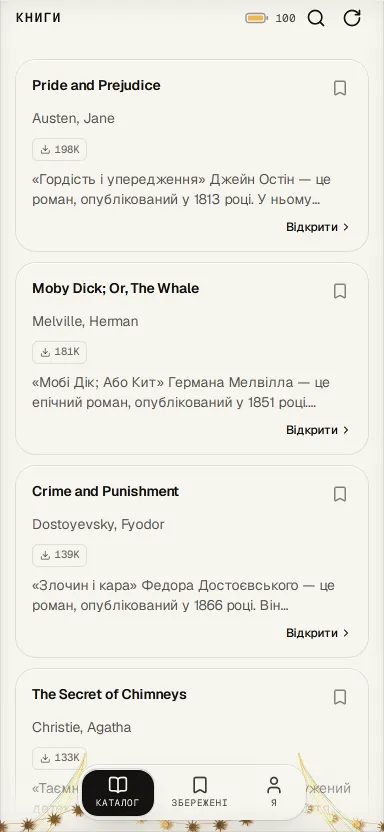
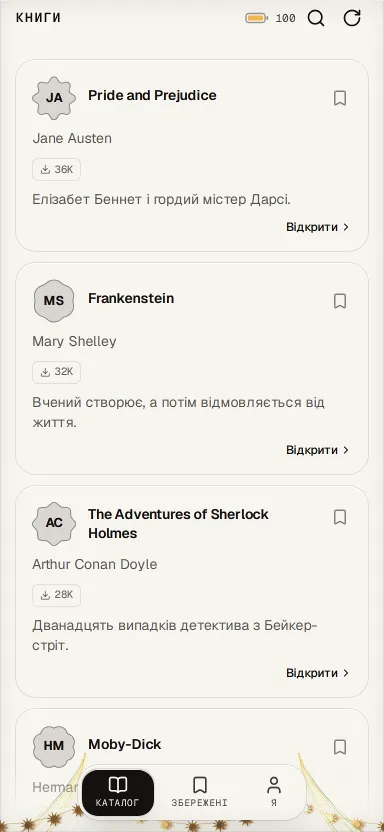
farm → core 1.2.134: the feeds carry their objects' own forms
Owner 2026-10-12: «так, давай стрічки». The feeds the core list draws take
the free-forms design through `card.form`, now on feed and gallery
(core 499ee80b), one spec line per card:
- books: the author's form with the author's initials (JA, MS, AC…).
- hf: the author's / org's form with its initial.
- hn: the poster's form with the initial.
- frontier: the repo owner's form with the initial.
- cinema, wiki: the card's picture seen through the film's / article's form
  (it leaves the 16:9 banner).
- openapps: every app's icon through its own form, as the store's apps.
hf alongside: spec `enrich` reads `readme`, which is empty for a gated model
(the list now asks `expand[]=gated`) — a gated README answers 401 to a
browser without a grant, 24 failed loads on every list, measured before and 0
after; gated cards had no prose either way.
Store: the six feeds' main-tab captures retaken in both themes on 1.2.134.
The bump itself: `deno outdated --update --lockfile-only` kept the jsr @1 at
1.2.133 (stale registry meta); `deno update` moved it, the two `@1` ranges
were put back by hand and the lock's `@1` keys pointed at 1.2.134 — the lock
is Deno's own (`deno install --frozen` accepts it); it also dropped the
dependency lists of old, unused core entries. node_modules lost daisyui's and
fast-uri's files in the reinstall (this device's hard links) — refilled from
the Deno cache.
Eye on the dev server (local core, then the installed 1.2.134): all seven,
[…]

diff --git a/apps/hf/data.js b/apps/hf/data.js
@@ -16,6 +16,8 @@ export async function load(filters = {}) {
   const params = new URLSearchParams({ sort, direction: "-1", limit: "40" });
   if (q) params.set("search", q);
   if (cat) params.set("filter", cat);
+  // `gated` is not in the list's default fields, and `expand` replaces the defaults — so every field read below is named
+  if (!spaces) for (const f of ["downloads", "likes", "pipeline_tag", "library_name", "createdAt", "gated"]) params.append("expand[]", f);
   const data = await fetchJson(`https://huggingface.co/api/${kind}?${params}`, { array: true });
   const items = (Array.isArray(data) ? data : []).map((m) => {
     const id = m.id || m.modelId || "";
@@ -31,6 +33,9 @@ export async function load(filters = {}) {
       likes: compact(m.likes),
       createdAt: m.createdAt ? Date.parse(m.createdAt) : 0,
       url: spaces ? `https://huggingface.co/spaces/${id}` : `https://huggingface.co/${id}`,
+      // what spec `enrich` reads the card's prose from: a gated model's README answers 401 to a browser without a
+      // grant (meta-llama, FLUX — 24 failed loads a list), so a gated model is not asked
+      readme: m.gated ? "" : (spaces ? `https://huggingface.co/spaces/${id}` : `https://huggingface.co/${id}`),
     };
   }).filter((it) => it.id);
   return { items, meta: {} };
